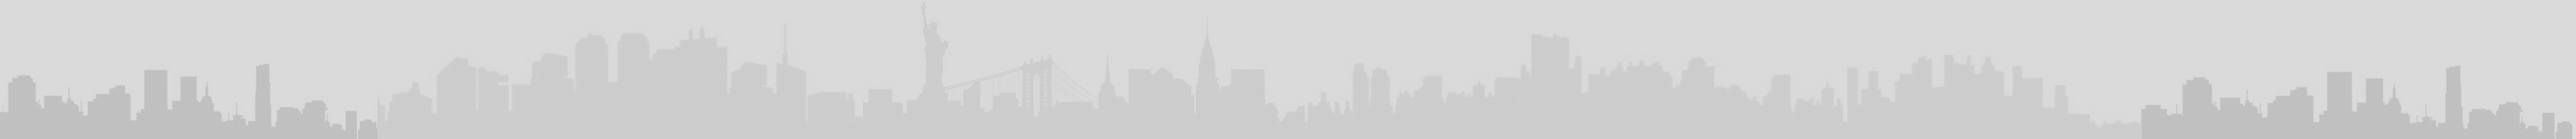
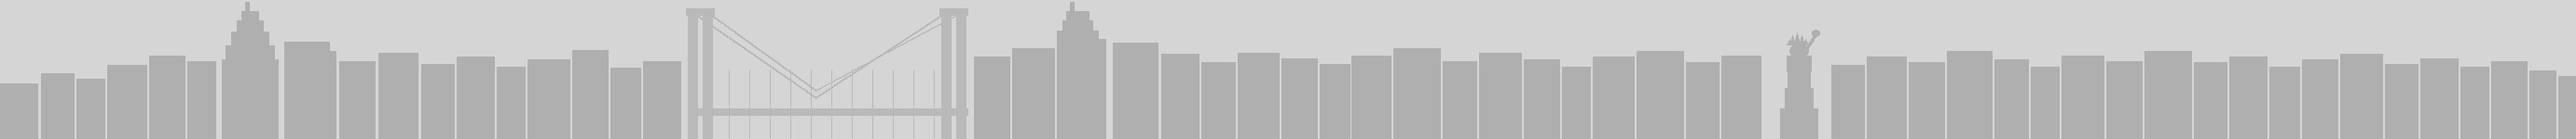
last one

diff --git a/components/Header.jsx b/components/Header.jsx
@@ -19,11 +19,11 @@ export default function Header() {
     <header className="site-header">
       <a href="/" aria-label="NYCWine.com home" className="logo-frame">
         <Image
-          src="/nycwine-logo.png"
+          src="/nycwine-logo-tagline.png"
           alt="NYCWine.com"
           width={140}
-          height={50}
-          style={{ height: '36px', width: 'auto', objectFit: 'contain' }}
+          height={65}
+          style={{ height: '47px', width: 'auto', objectFit: 'contain' }}
           priority
         />
       </a>

diff --git a/styles/globals.css b/styles/globals.css
@@ -74,7 +74,7 @@ body {
 ═══════════════════════════════════════ */
 .site-header {
   /* Single light-gray skyline, full-width, buildings anchored to bottom */
-  background: white url('/images/skyline5.jpg') center bottom / 100% auto no-repeat;
+  background: white url('/images/skyline6.jpg') center bottom / 100% auto no-repeat;
   min-height: 90px;
   border-top: 3px solid var(--pink);
   border-bottom: 3px solid var(--pink);
